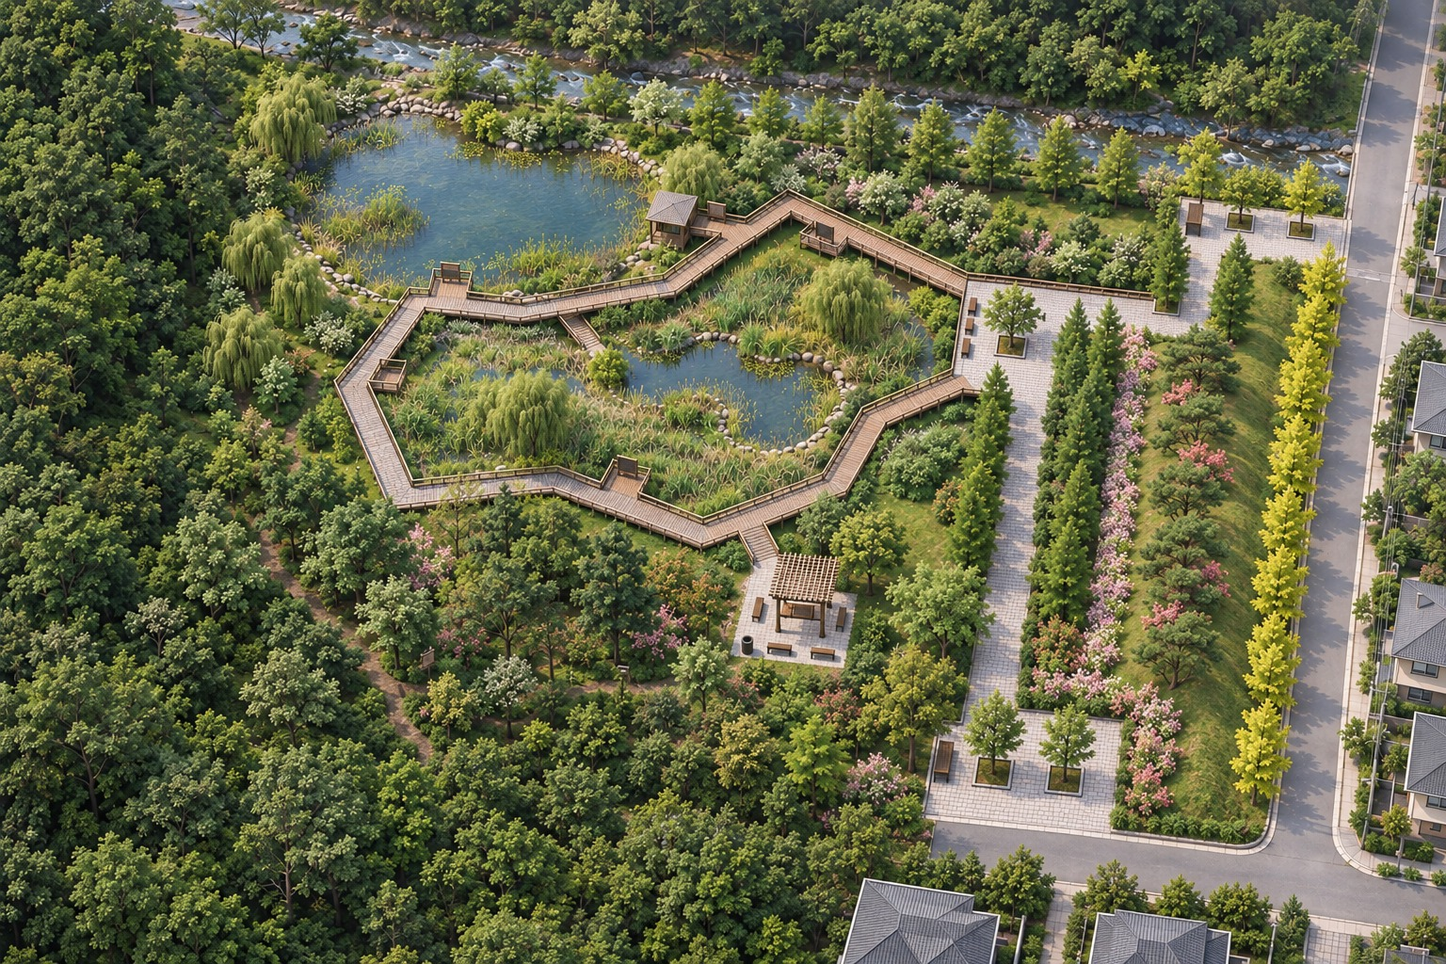
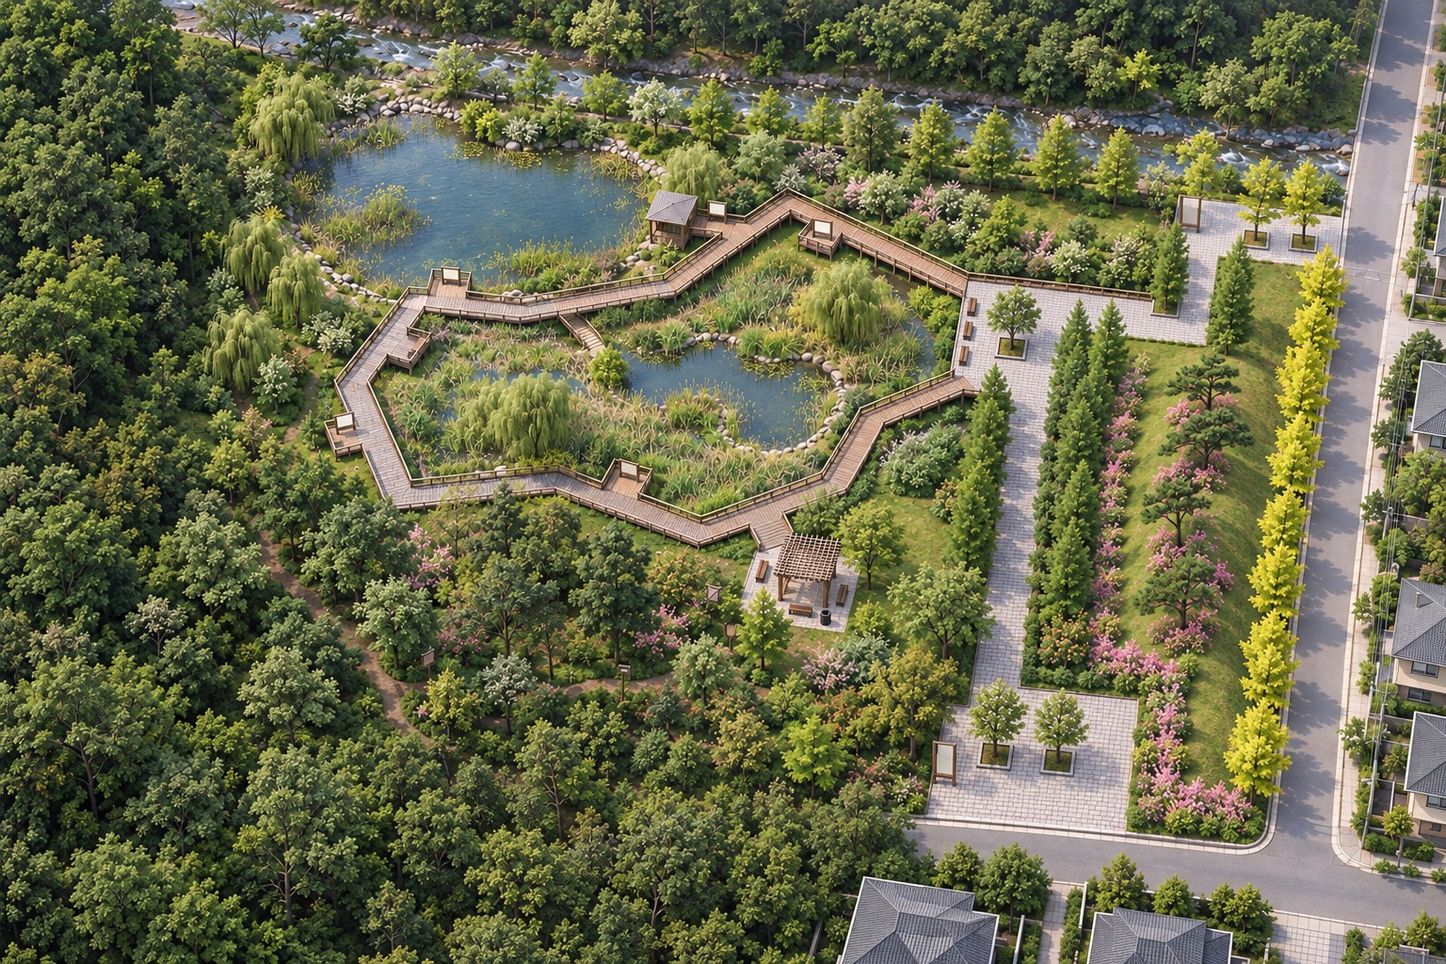
401 세 그림: 안내판 판면을 연한 미색으로, 진입광장 안내판 정렬
지난 회차의 "짙은 나뭇결 목재판"이 주변과 안 어울린다는 지적. 판면을
아주 연한 미색(회백색)으로 바꿨다 — 눈부신 순백도 아니고 짙은 목재도
아니며, 옆 포장과 비슷한 밝기라 멀리서 흰 점으로 도드라지지 않는다.
함께 두 진입광장의 안내판이 비스듬히 틀어져 있던 것을 광장 포장 변과
나란히 돌려 세웠다(관찰데크 쪽은 앞 회차에 이미 나란해졌다).

세 그림 모두 덧그림이 적은 조상에서 그 그림의 항목 전부를 한 프롬프트에
넣어 한 번에 그렸다. 선명도가 셋 다 오히려 올랐다:

  조감도      9회차 2945 → 10회차 3100  (기준 2500)
  입체평면도  18회차 1038 → 19회차 1117  (기준 913)
  My 조감도   8회차 1784 →  9회차 1809  (기준 1672)

판면과 옆 포장의 밝기 차이가 직전 -104~-166 에서 0~+44 로 좁혀졌다.
입체평면도의 평행투영은 그대로다 — 동측 도로 띠 왼끝 1353·1356·1361px,
좌변 -16px · 우변 +32px. 세 그림 모두 관찰데크 5 + 조류관찰소 1 안내판이
남았고 모임광장 평의자 3 · 휴게공간 평의자 5 도 그대로다.

diff --git a/_ls_drawing_refs/401_입체평면도/content.md b/_ls_drawing_refs/401_입체평면도/content.md
@@ -1,5 +1,5 @@
 'My' 탭의 색 배치도와 '성운' 탭의 **기본설계도 · 배식설계도**를 GPT 이미지 모델
-(gpt-image-2.5-sunburst)에 주고 만든 **입체평면도**입니다(18회차).
+(gpt-image-2.5-sunburst)에 주고 만든 **입체평면도**입니다(19회차).
 
 '조감도' 탭과 달리 **원근이 없는 평행투영(축측투영)** 입니다. 멀리 있는 것도 가까이 있는 것과
 같은 크기로 그려지므로 **평면도와 그대로 견주어 볼 수 있습니다** — 주택 여덟 채가 모두 같은
@@ -69,8 +69,10 @@
     선명도가 16회차보다 오히려 **2% 올라갔습니다**(1015 → 1033)
 18. 안내판의 **흰 판이 멀리서 흰 점으로 도드라진다**는 지적을 받아, 다시 **13회차로 돌아가**
     '가장자리 띠 · 평의자 3 · 판면을 짙은 나뭇결 목재로' 셋을 한 프롬프트에 넣어 그렸습니다(18회차).
-    판면 밝기가 **80 : 주변 포장 124** 로 확실히 어두워졌고(17회차는 157 : 127 로 오히려 밝았습니다),
-    선명도는 1038 로 17회차와 같습니다
+    판면이 어두워졌으나 이번에는 **주변과 안 어울린다**는 지적이 나왔습니다
+19. 다시 13회차로 돌아가 네 가지(가장자리 띠 · 평의자 3 · **판면을 아주 연한 미색으로** ·
+    **진입광장 안내판을 광장 변과 나란히**)를 한 번에 그렸습니다(19회차). 선명도가 **1117** 로
+    18회차(1038)보다 올랐고, 평행투영도 그대로입니다 — 동측 도로 띠 왼끝 1353·1356·1361px
 
 > 회차마다 색 배치도와 배식설계도를 첫 두 참고 그림으로 다시 주고, 앞 회차 그림을 셋째로 줍니다.
 > 마스크 부분 수정이나 그림을 손으로 자르고 돌리는 일은 하지 않습니다.
@@ -93,7 +95,7 @@
 10회차 1351·1349·1361px, 16회차 1353·1356·1361px 로 같고, 모형 왼쪽 변 기울기도
 10회차 −18px, 16회차 −16px(730px 기준)로 같습니다.
 
-## 도면과 대조 (18회차)
+## 도면과 대조 (19회차)
 
 | 항목 | 도면 | 그림 |
 | --- | --- | --- |
@@ -111,20 +113,20 @@
 | 진입광장 | 2개소(북동 모서리 · 남측), 종합안내판 1 · 수목보호대 2씩, 도로로 바로 열림 | ✓ 보호대 합계 5개(모임광장 1 + 진입광장 2+2) |
 | 남북 동선 | 두 진입광장을 잇는 소형고압블록 포장 | ✓ 동측 도로와 평행 |
 | 배식 | 동선 서쪽 메타세쿼이아 열식 · 동쪽 마운딩에 소나무 7 + 철쭉 · 도로변 은행나무 열식 · 산림지구 다층림 · 저수지·관찰로 서쪽은 열린 잔디 | ✓ 마운딩은 잔디 언덕에 소나무 7주(13회차), 서쪽 변과 남쪽 변을 따라 끊기지 않는 꽃관목 띠(16회차) |
-| 안내판 판면 | — | ✓ 짙은 나뭇결 목재판 — 주변 포장보다 어둡습니다(80 : 124, 18회차) |
+| 안내판 판면 | — | ✓ 아주 연한 미색 — 옆 포장과 비슷한 밝기라 흰 점으로 도드라지지 않습니다. 진입광장 안내판도 광장 변과 나란히(19회차) |
 | 글자 | 없음 | ✓ |
 
 남은 차이는 둘입니다. ① **저수지가 도면보다 조금 동쪽·넓습니다**(도면 부지 폭의 14~44%, 그림 약 19~50%). ② **남측 도로가 55% 지점에서 시작**합니다(도면 50%).
 
-비용은 18장 약 $0.84 입니다(16~18회차만 `xhigh` 품질이라 장당 $0.074).
+비용은 19장 약 $0.92 입니다(16~19회차만 `xhigh` 품질이라 장당 $0.074).
 
-## 프롬프트 — 마지막 회차(18회차, 참고: 색 배치도 + 배식설계도 + 13회차 그림)
+## 프롬프트 — 마지막 회차(19회차, 참고: 색 배치도 + 배식설계도 + 13회차 그림)
 
-13회차 그림을 함께 주고 고칠 셋만 적은 것입니다. 1~17회차 프롬프트는 뺐습니다.
+13회차 그림을 함께 주고 고칠 넷만 적은 것입니다. 1~18회차 프롬프트는 뺐습니다.
 
     The FIRST attached image is the colour-coded site plan of a small Korean ecological park. The SECOND is its hand-drawn planting plan. The THIRD attached image is a PHOTOREALISTIC axonometric render of the same park. Its LAYOUT, its CAMERA, its PARALLEL PROJECTION, its MATERIALS, its TEXTURES, its LIGHTING and every one of its objects are CORRECT and must be reproduced exactly. It stays photorealistic.
 
-    Three things are wrong. Fix exactly these three. Change nothing else at all.
+    Four things are wrong. Fix exactly these four. Change nothing else at all.
 
     FIX 1 — THE MISSING SHRUB EDGING ON THE MOUND.
     Find the long grassy mound: the low turf hill in the open lawn east of the straight block-paved path, the one planted with seven pines and pink azaleas down its middle. Its LEFT side, where the turf meets the block paving of the path, is at present BARE GRASS, with only two or three loose clumps of shrubs at its top end and one near its bottom end.
@@ -140,10 +142,13 @@
 
     When you are done, that strip carries THREE IDENTICAL BROWN TIMBER BENCHES and nothing else. Count them: one bench, two benches, three benches. There is NO white panel, NO timber frame, NO standing board and NO sign of any kind left anywhere on this plaza. The tree in its square metal grate stays exactly where it is, immediately to their right.
 
-    DO NOT TOUCH THE OTHER SIGNBOARDS. The small blank white boards on the five timber viewing platforms of the boardwalk, and the one at the bird-watching hut, MUST ALL STAY - six boards in all, each now with a dark timber panel, at the same places, the same sizes and the same square alignment. Do not delete them, do not move them and do not turn them into benches. The large blank boards on the two entrance plazas also stay. Only the three frames on the gathering plaza change.
+    DO NOT TOUCH THE OTHER SIGNBOARDS. The small blank white boards on the five timber viewing platforms of the boardwalk, and the one at the bird-watching hut, MUST ALL STAY - six boards in all, each with a pale off-white panel, at the same places, the same sizes and the same square alignment. Do not delete them, do not move them and do not turn them into benches. The large blank boards on the two entrance plazas also stay. Only the three frames on the gathering plaza change.
 
-    FIX 3 — THE BOARD FACES ARE DARK TIMBER, NOT WHITE.
-    Every signboard in the picture - the 5 small boards on the 5 timber viewing platforms, the 1 board at the bird-watching hut, and the large boards on both entrance plazas - currently has a BRIGHT WHITE face inside its timber frame, so it stands out as a white dot. Replace that white face with a panel of DARK, GRAIN-TEXTURED TIMBER. The panel must be DARKER than the grass and darker than the block paving around it; never white, never light grey, never pale. Put only a few very faint lines on it and NO letters and NO text of any kind. Keep the timber frame and its legs exactly as they are - you are changing only the COLOUR AND MATERIAL OF THE PANEL, you are NOT removing any signboard. All of them still stand where they stand.
+    FIX 3 — THE BOARD PANELS ARE PALE OFF-WHITE, NEITHER GLARING WHITE NOR DARK.
+    Every signboard in the picture - the 5 small boards on the 5 timber viewing platforms, the 1 board beside the bird-watching hut, and the large boards on BOTH entrance plazas - carries a panel inside its timber frame. That panel is a VERY PALE OFF-WHITE, a soft warm greyish cream. Do NOT make it a glaring pure white, and do NOT make it dark timber or any dark colour. Its brightness must be CLOSE TO the brightness of the block paving right beside it, so that from far away it does not read as a white dot against the ground. Put only a few very faint lines on it and NO letters and NO text of any kind. Keep the timber frame and its legs exactly as they are, and do not remove or move any signboard.
+
+    FIX 4 — EVERY SIGNBOARD STANDS SQUARE TO THE PAVING BESIDE IT.
+    Every signboard stands square to the paving or the deck it is on: the long edge of each board is exactly PARALLEL to the nearest edge of that paving or deck, and its face looks straight out across it at a right angle. NOT ONE board is left skewed, tilted or turned at an odd angle. This applies ESPECIALLY to the two LARGE SIGNBOARDS ON THE ENTRANCE PLAZAS, which are at present turned at a careless angle - turn each of them so that its long edge runs exactly along the edge of its own plaza paving, in line with the kerb. The positions, sizes and pale panels of all the boards do not change.
 
     SHARPNESS — RENDER THIS FRESH AT FULL RESOLUTION AND FULL DETAIL.
     Do not retouch or resample the third image: draw the whole picture again from scratch. Every part of it must be at least as crisp and as finely detailed as the third image is — the individual leaves in every canopy, the blades and mowing stripes in the turf, the board joints and grain of the boardwalk, the joints of the block paving, the roof tiles of the houses, the pebbles at the water edge. Nothing may come out softer, blurrier, smoother or more washed out than in the third image.
@@ -163,6 +168,6 @@
     - All vertical edges exactly vertical in the picture and exactly parallel to one another.
     - The camera stays 45 degrees above the ground, the slab's DEPTH foreshortened to 0.71 of true, exactly as in the third image. Same framing and orientation: stream and reservoir at the TOP, narrow woodland strip and forest on the LEFT and lower left, road and houses on the RIGHT, second road and houses along the BOTTOM RIGHT. Do not rotate, flip, zoom or crop.
 
-    EVERYTHING ELSE IS EXACTLY AS IN THE THIRD IMAGE: the stream across the top with wooded hillside beyond; the reservoir with its willows, reed beds and shoreline stones; the wetland pond; ONE closed angular ring of raised timber boardwalk with EXACTLY 5 viewing platforms, each carrying one board with a dark timber panel; EXACTLY 1 bird-watching hut on the reservoir's lower-right shore; the rest area with EXACTLY 1 pergola, 2 benches and 1 litter bin under shade trees; the gathering plaza with its EXACTLY 1 tree in a square grate; EXACTLY 2 trees in grates and 1 blank board on the top-right entrance plaza; EXACTLY 2 trees in grates and 1 blank board on the bottom entrance plaza — FIVE tree grates in all; ONE single row of about 12 dawn redwoods on the grass immediately LEFT of the straight path; ONE single row of ginkgos inside the right-hand road continuing inside the bottom road; open mown lawn west of the ring and west of the reservoir with only three or four isolated specimen trees; the dense multi-layered woodland only in the lower left and lower middle.
+    EVERYTHING ELSE IS EXACTLY AS IN THE THIRD IMAGE: the stream across the top with wooded hillside beyond; the reservoir with its willows, reed beds and shoreline stones; the wetland pond; ONE closed angular ring of raised timber boardwalk with EXACTLY 5 viewing platforms, each carrying one board with a pale off-white panel; EXACTLY 1 bird-watching hut on the reservoir's lower-right shore; the rest area with EXACTLY 1 pergola, 2 benches and 1 litter bin under shade trees; the gathering plaza with its EXACTLY 1 tree in a square grate; EXACTLY 2 trees in grates and 1 blank board on the top-right entrance plaza; EXACTLY 2 trees in grates and 1 blank board on the bottom entrance plaza — FIVE tree grates in all; ONE single row of about 12 dawn redwoods on the grass immediately LEFT of the straight path; ONE single row of ginkgos inside the right-hand road continuing inside the bottom road; open mown lawn west of the ring and west of the reservoir with only three or four isolated specimen trees; the dense multi-layered woodland only in the lower left and lower middle.
 
-    STRICT RULES: no new buildings, plazas, paths, bridges, fences, walls, cars or people; every board carries a dark timber panel with no writing on it; NO text, letters, numbers, labels, legends, arrows, north arrow, scale bar, grid lines, dimension lines or watermark anywhere.
+    STRICT RULES: no new buildings, plazas, paths, bridges, fences, walls, cars or people; every board carries a pale off-white panel with no writing on it; NO text, letters, numbers, labels, legends, arrows, north arrow, scale bar, grid lines, dimension lines or watermark anywhere.

diff --git a/_ls_drawing_refs/401_조감도/content.md b/_ls_drawing_refs/401_조감도/content.md
@@ -1,5 +1,5 @@
 '성운' 탭의 **답안지 II · 기본설계도**와 **답안지 III · 배식설계도**, 문제지 조건으로 만든 **입체 조감도**입니다.
-**GPT**(gpt-image-2.5-sunburst, 9회차)로 그렸습니다. 남동쪽 상공에서 북서쪽을 내려다본 시점이라 **도면의 북쪽이 그림의 위**입니다 —
+**GPT**(gpt-image-2.5-sunburst, 10회차)로 그렸습니다. 남동쪽 상공에서 북서쪽을 내려다본 시점이라 **도면의 북쪽이 그림의 위**입니다 —
 실개천이 위, 기존수림이 왼쪽, 6m 도로와 주택가가 오른쪽·아래입니다.
 
 ## 만든 방법 — 1회차 그림에서 **한 번에**
@@ -13,14 +13,17 @@
 3. 그래서 **6회차 위에 더 얹지 않고 1회차로 돌아가**, 2~6회차에서 고쳤던 것과 새로 지적된 것을 **모두 한 프롬프트에 넣어
    한 번에** 그렸습니다(8·9회차). 선명도가 **2945** 로 1회차보다도 높아졌습니다 — 배포본 542 의 **5.4배**입니다
 4. 8회차에서 ①~⑪이 모두 맞았고, 안내판의 **흰 판이 멀리서 흰 점으로 도드라진다**는 지적이 남아
-   9회차에 ⑫ "틀 안을 짙은 나뭇결 목재판으로, 주변 잔디·포장보다 어둡게"를 더했습니다.
-   판면 밝기를 재 보니 **102 : 주변 포장 162** 로 확실히 어둡습니다(8회차는 168 : 148 로 오히려 밝았습니다)
+   9회차에 ⑫ 판면을 짙은 나뭇결 목재로 바꿨더니 이번에는 **주변과 안 어울린다**는 지적이 나와,
+   10회차에서 **아주 연한 미색(회백색)** 으로 고쳤습니다 — 눈부신 순백도 아니고 짙은 목재도 아니며,
+   옆 포장과 비슷한 밝기라 멀리서 흰 점으로 보이지 않습니다. 함께 **두 진입광장의 안내판이
+   비스듬히 틀어져 있던 것**을 광장 포장 변과 나란히 돌려 세웠습니다(관찰데크 쪽은 9회차에 이미 나란해졌습니다).
+   선명도는 **3100** 으로 또 올랐습니다
 
 > **덧그리기는 곧 화질입니다.** 고칠 것이 생기면 마지막 그림 위에 얹지 말고, **덧그림이 적은 앞 회차로 돌아가
 > 고칠 것을 모두 한 프롬프트에 모아** 다시 그리는 편이 낫습니다. 같은 방식으로 'My' 탭 조감도와 '입체평면도'도 고쳤습니다.
 > 마스크 부분 수정이나 그림을 손으로 자르고 돌리는 일은 하지 않습니다.
 
-## 도면과 대조 (9회차)
+## 도면과 대조 (10회차)
 
 | 도면(성운 답안) | 결과 |
 | --- | --- |
@@ -33,14 +36,14 @@
 | 모임광장 — 습지 동쪽, 수목보호대 1 · **평의자 3** | ✓ 시설물 수량표가 평의자 8 · 안내판 6 · 종합안내판 1 인데 안내판 6은 관찰데크 5 + 조류관찰소 1 로 다 차므로, 평의자 8 − 휴게공간 5 = 3 이 모임광장 몫입니다 |
 | 진입광장 2 — 북동 모서리 · 남측, 종합안내판 1 · 수목보호대 2씩, 소형고압블록 | ✓ 안내판은 서쪽 변, 광장이 도로로 바로 열림. 북동 광장 북쪽 은행나무는 보호대 없이 녹지에 |
 | 두 진입광장을 잇는 남북 동선, 서쪽 메타세쿼이아 열식, 동쪽 마운딩에 소나무 7 · 철쭉, 도로변 은행나무 열식 | ✓ 마운딩은 **봉긋한 잔디 둔덕**이고 서쪽 변과 남쪽 변을 따라 **끊기지 않는 꽃관목 띠**를 둘렀습니다 |
-| 안내판 판면 | ✓ 짙은 나뭇결 목재판 — 주변 포장보다 어둡습니다(102 : 162) |
+| 안내판 판면 | ✓ 아주 연한 미색 — 옆 포장과 비슷한 밝기라 흰 점으로 도드라지지 않습니다. 진입광장 안내판도 광장 포장 변과 나란히 돌려 세웠습니다(10회차) |
 | 글자 없음 | ✓ |
 
-비용은 9장 약 $0.39 입니다(8·9회차만 `xhigh` 품질이라 장당 $0.074).
+비용은 10장 약 $0.46 입니다(8~10회차만 `xhigh` 품질이라 장당 $0.074).
 
-## 프롬프트 — 마지막 회차(9회차, 참고: 기본설계도 + 배식설계도 + 1회차 그림)
+## 프롬프트 — 마지막 회차(10회차, 참고: 기본설계도 + 배식설계도 + 1회차 그림)
 
-1회차 그림을 함께 주고 고칠 열두 가지를 한꺼번에 적은 것입니다. 1~8회차 프롬프트는 뺐습니다.
+1회차 그림을 함께 주고 고칠 열두 가지를 한꺼번에 적은 것입니다. 1~9회차 프롬프트는 뺐습니다.
 
     The FIRST attached image is the site and facilities plan of a small Korean ecological park (north is up in the drawing). The SECOND attached image is the planting plan of the same site. These two drawings are the ground truth for WHAT is where.
 
@@ -52,7 +55,7 @@
 
     2. REST AREA. The small paved square beside the pergola, at the south-east edge of the forest, must hold EXACTLY 1 timber pergola, EXACTLY 5 flat backless timber benches standing on the paving around it, all five clearly visible and none hidden under the pergola roof, and EXACTLY 1 round litter bin. Count the benches: one, two, three, four, five.
 
-    3. BOARDWALK DECKS. The timber boardwalk loop round the marsh must carry EXACTLY 5 small observation decks bulging outward from it, each one a small timber platform with rails and ONE small board with a dark timber panel. Count them: one, two, three, four, five.
+    3. BOARDWALK DECKS. The timber boardwalk loop round the marsh must carry EXACTLY 5 small observation decks bulging outward from it, each one a small timber platform with rails and ONE small board with a pale off-white panel. Count them: one, two, three, four, five.
 
     4. NORTH-EAST ENTRANCE PLAZA. It sits at the top-right corner and must open DIRECTLY onto the east road with a dropped kerb — nothing stands between the plaza and the road. Its large signboard stands on the plaza's WEST edge facing east, not on its north edge.
 
@@ -66,11 +69,13 @@
 
     9. GATHERING PLAZA — THREE BENCHES, NO BOARDS. The gathering plaza is the paved square on the east side of the marsh where the boardwalk loop meets the paths, the one with a single shade tree growing in a square tree grate. On its WEST edge, in the strip of paving between the timber boardwalk deck and that tree, stand EXACTLY 3 flat backless BROWN TIMBER BENCHES in a row, evenly spaced, all identical. Count them: one bench, two benches, three benches. There is NO signboard, NO upright panel and NO standing board of any kind anywhere on this plaza.
 
-    12. THE BOARD FACES ARE DARK TIMBER, NOT WHITE. Every signboard in the picture - the 5 small boards on the observation decks, the 1 board beside the bird-watching hide, and the large boards on both entrance plazas - currently has a BRIGHT WHITE face inside its timber frame, so it stands out as a white dot from far away. Replace that white face with a panel of DARK, GRAIN-TEXTURED TIMBER. The panel must be DARKER than the grass and darker than the block paving around it; never white, never light grey, never pale. Put only a few very faint lines on it and NO letters and NO text of any kind. Keep the timber frame and its legs exactly as they are - you are changing only the COLOUR AND MATERIAL OF THE PANEL, you are NOT removing any signboard. All of them still stand where they stand.
+    12. THE BOARD PANELS ARE PALE OFF-WHITE, NEITHER GLARING WHITE NOR DARK.
+    Every signboard in the picture - the 5 small boards on the 5 timber viewing platforms, the 1 board beside the bird-watching hut, and the large boards on BOTH entrance plazas - carries a panel inside its timber frame. That panel is a VERY PALE OFF-WHITE, a soft warm greyish cream. Do NOT make it a glaring pure white, and do NOT make it dark timber or any dark colour. Its brightness must be CLOSE TO the brightness of the block paving right beside it, so that from far away it does not read as a white dot against the ground. Put only a few very faint lines on it and NO letters and NO text of any kind. Keep the timber frame and its legs exactly as they are, and do not remove or move any signboard.
 
-    10. THE OTHER BOARDS ALL STAY. The 5 small blank boards on the 5 observation decks and the 1 blank board beside the timber bird-watching hide at the pond must ALL be there — SIX boards in all, each now with a dark timber panel. Do not delete them, do not move them and do not turn them into benches. The large signboards on the two entrance plazas also stay.
+    10. THE OTHER BOARDS ALL STAY. The 5 small blank boards on the 5 observation decks and the 1 blank board beside the timber bird-watching hide at the pond must ALL be there — SIX boards in all, each with a pale off-white panel. Do not delete them, do not move them and do not turn them into benches. The large signboards on the two entrance plazas also stay.
 
-    11. BOARDS STAND SQUARE. Every remaining signboard stands square to the paving or deck it is on: the long edge of each board is exactly PARALLEL to the edge of that paving or deck, and its face looks straight out across it. Not one board is left skewed or turned at an odd angle.
+    11. EVERY SIGNBOARD STANDS SQUARE TO THE PAVING BESIDE IT.
+    Every signboard stands square to the paving or the deck it is on: the long edge of each board is exactly PARALLEL to the nearest edge of that paving or deck, and its face looks straight out across it at a right angle. NOT ONE board is left skewed, tilted or turned at an odd angle. This applies ESPECIALLY to the two LARGE SIGNBOARDS ON THE ENTRANCE PLAZAS, which are at present turned at a careless angle - turn each of them so that its long edge runs exactly along the edge of its own plaza paving, in line with the kerb. The positions, sizes and pale panels of all the boards do not change.
 
     WHAT MUST NOT CHANGE:
     - The same camera and the same true perspective: an oblique aerial view from the SOUTH-EAST looking north-west, tilted about 45 degrees, with the stream at the top of the picture. The same framing and crop, the same late-spring daylight and soft shadows, the same colour balance.
@@ -81,4 +86,4 @@
 
     RENDER IT FRESH AT MAXIMUM RESOLUTION AND MAXIMUM DETAIL — this matters as much as the twelve fixes. Draw the whole picture again; do not retouch, soften or resample the third image. Every part must be at least as crisp and as finely detailed as the third image: the individual leaves in every canopy, the blades of the turf, the grain and board joints of the boardwalk, the individual blocks of the paving, the rocks at the water's edge, the roof tiles of the houses. Do not simplify, smooth or average any texture.
 
-    STRICT RULES: no new buildings, plazas, paths, bridges, fences, walls, cars or people; every board carries a dark timber panel with no writing on it; NO text, letters, numbers, labels, legends, arrows, north arrow, scale bar, grid lines, dimension lines or watermark anywhere in the picture.
+    STRICT RULES: no new buildings, plazas, paths, bridges, fences, walls, cars or people; every board carries a pale off-white panel with no writing on it; NO text, letters, numbers, labels, legends, arrows, north arrow, scale bar, grid lines, dimension lines or watermark anywhere in the picture.
